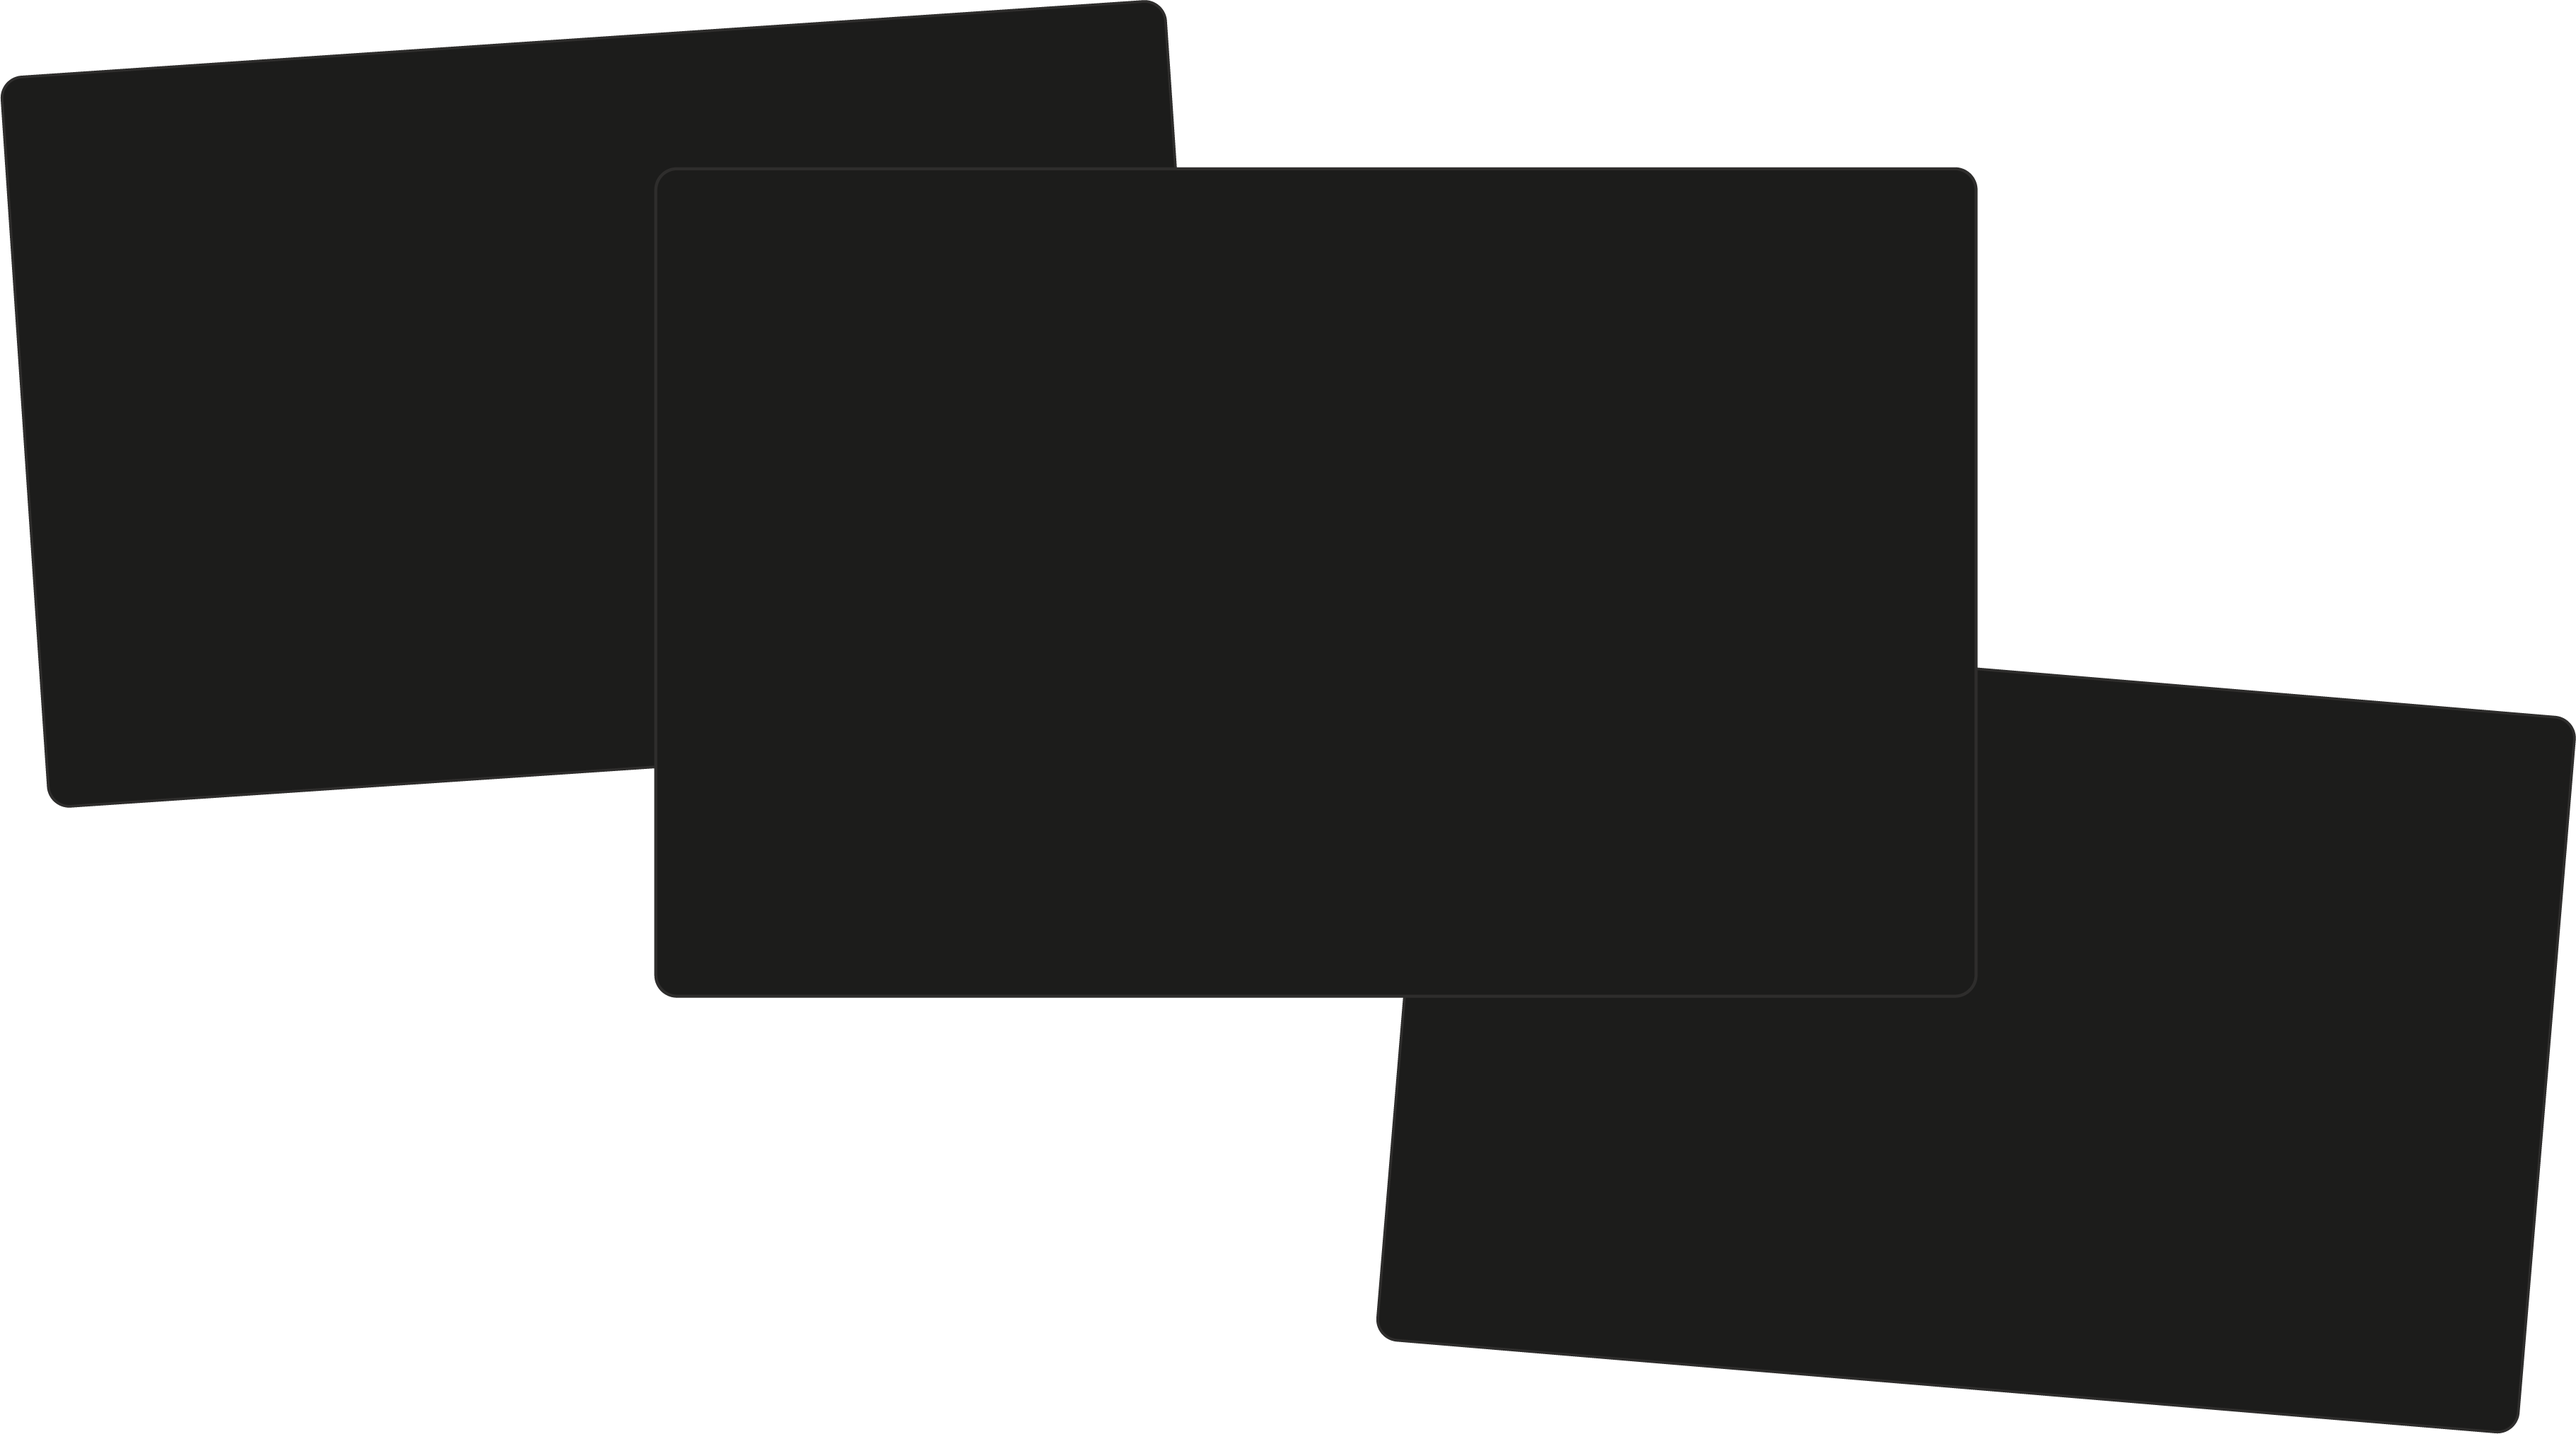
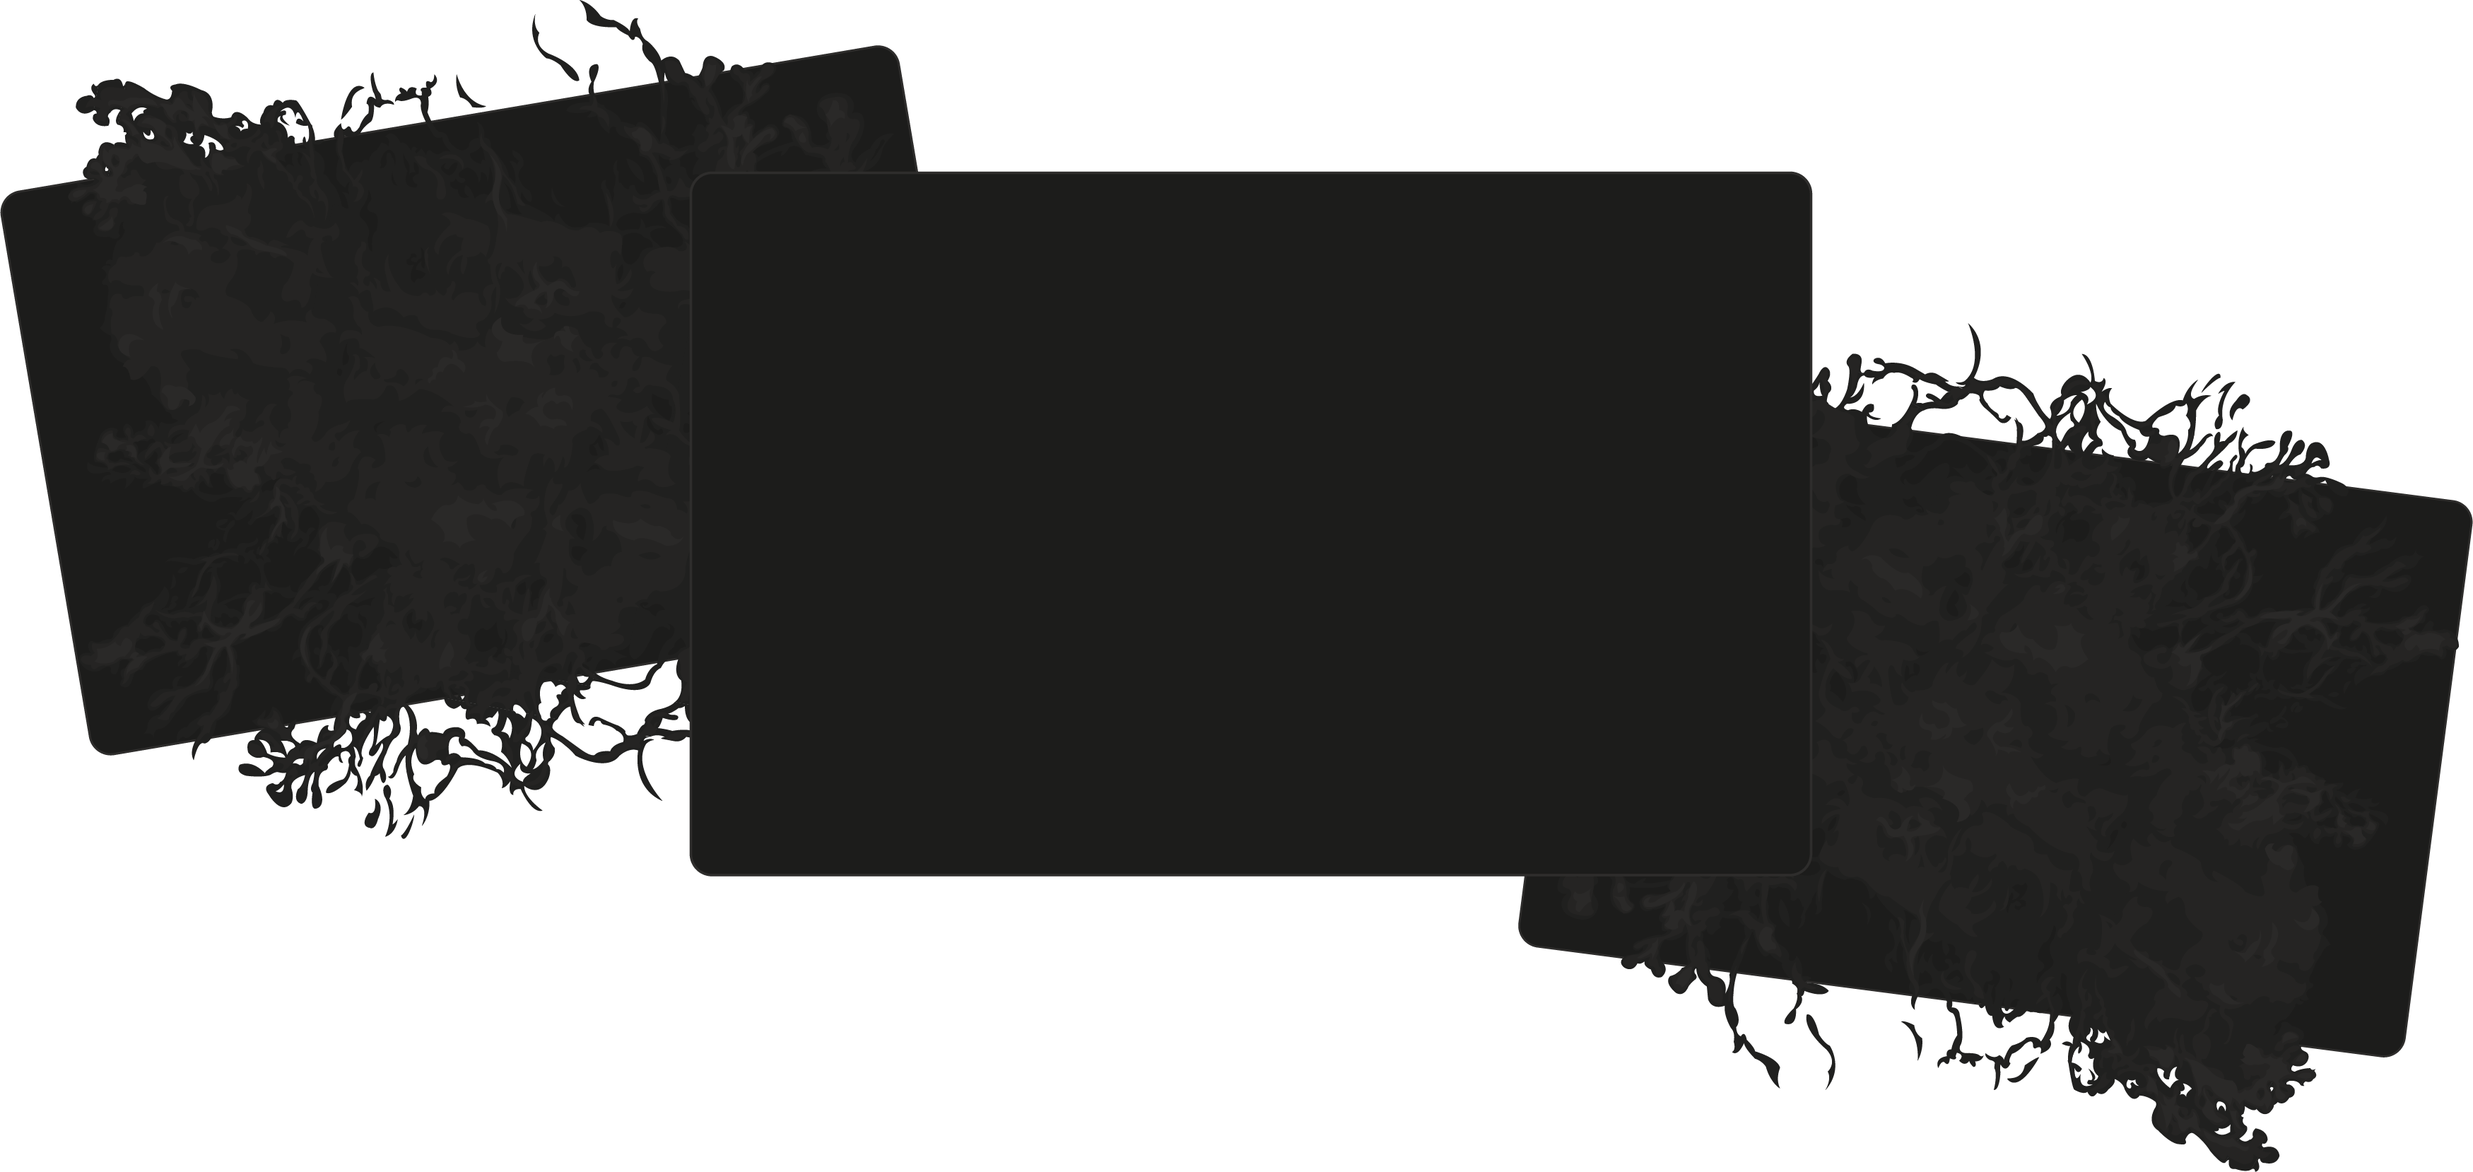
Added fungus to other cards

Changed region(s): [[0.0, 0.0, 1.0, 1.0], [0.0, 0.3384, 0.0312, 0.5537]]

diff --git a/stylesheets/tloutls.css b/stylesheets/tloutls.css
@@ -43,11 +43,11 @@
 
 .opening .tloutls-image {
   position: absolute;
-  bottom: 59.5%;
-  left: 15.75%;
+  bottom: 55.25%;
+  left: 19.9%;
   transform: translate(50%, 50%);
   opacity: 0.9;
-  width: 35%;
+  width: 30.5%;
   height: auto;
 }
 
